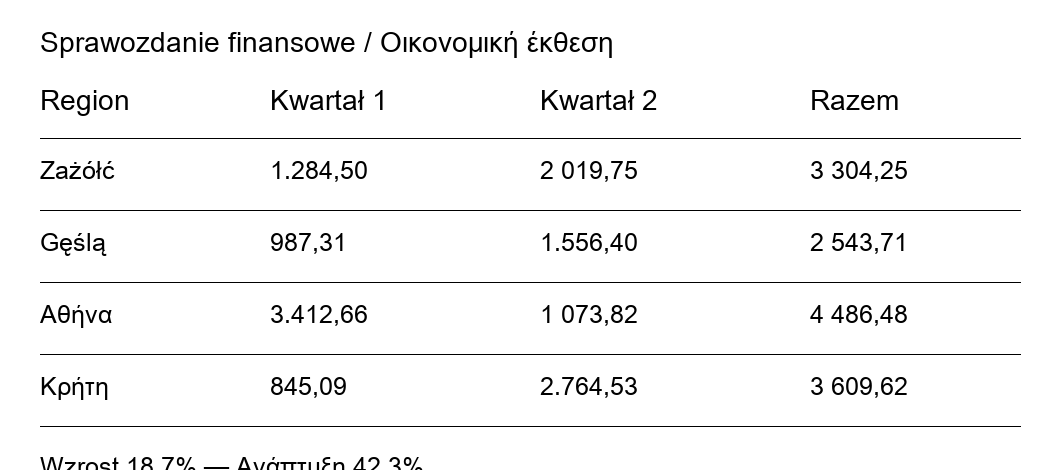
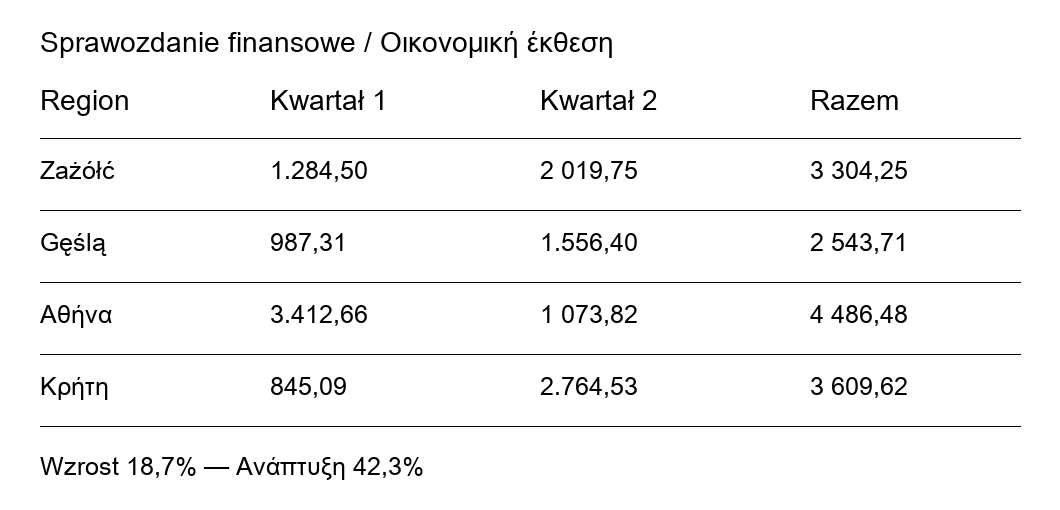
The fixture was clipped: the decimal comma was never in the image
The headline accuracy defect of this pipeline -- "every engine loses the decimal
comma in 18,7% and 42,3%" -- was not an OCR failure. make_fixture.py rendered a
1060x470 image and drew the last line at y=448 in a 25px font, so the baseline
landed at y~471. Measured on the shipped euro_table_sample.png: the comma cell
between the '8' (cols 141-152) and the '7' (cols 162-173) contains ZERO ink, ink
runs to row 469 which is the last row of the image, and there are no rows left
below the glyphs. A comma sits below the baseline, so it fell outside the raster.

Regenerating at 1060x510 and changing nothing else puts 16 ink pixels in that
cell, and PP-OCRv6 reads 'Wzrost 18,7% - ... 42,3%' where it previously read
'Wzrost 18 7% - ... 42 3%'.

Three conclusions have to be withdrawn. PP-OCRv6 and Tesseract were never wrong;
they reported what was there. There was no shared failure mode. And Qwen3.5-VL
did not read the comma correctly -- it emitted a character that is not in the
pixels, and evaluate.py scored that hallucination as a five-point recall gain and
a jump from 90% to 100% precision. A metric that rewards fabrication is the worst
possible property for this system, so the fixture is corrected and the clipped
version kept as euro_clipped_sample.png, which is a genuine degraded-input
fixture worth having.

Also fixes three latent fabrication paths in numeric.py, all reproduced:

- lost_separator_spans consumed the digits around the gap, so a legitimate
[…]

diff --git a/test_numeric.py b/test_numeric.py
@@ -66,7 +66,10 @@ check("'2 x 500 mg' is a product", [q.kind for q in extract("2 x 500 mg")], ["pr
 check("'range 10-20' no negative", vals("range 10-20"), ["10", "20"])
 
 print("\n=== defect 1.10c: lost-separator flag is per-span, not per-line ===")
-check("'BP 120 80' spans", lost_separator_spans("BP 120 80"), [(5, 9)])
+# The span now starts at the gap rather than at the digit before it: the pattern
+# uses a lookbehind so a legitimate thousands group cannot consume the digit that
+# anchors the next test. Callers use these as a boolean, so the bound is cosmetic.
+check("'BP 120 80' spans", lost_separator_spans("BP 120 80"), [(6, 9)])
 check("'Итого 2 019,75' no span", lost_separator_spans("Итого 2 019,75"), [])
 
 print("\n=== no regression: English fixture (table_sample.png) ===")
@@ -112,6 +115,22 @@ for raw, want in [("140 mg", "140 mg"), ("1000 mg", "1000 mg"), ("100 %", "100%"
     q = extract(raw)[0]
     check(f"display({raw!r})", format_key(q.key), want)
 check("'5.0' and '5' still equal", extract("5.0")[0].key == extract("5")[0].key, True)
+
+print("\n=== silent fabrication paths that had no flag at all ===")
+# A thousands group used to consume the digit anchoring the next test, so a
+# dropped decimal separator right after one was invisible.
+check("'2 019 75' is flagged", bool(lost_separator_spans("2 019 75")), True)
+check("'2 019,75' still not flagged", lost_separator_spans("2 019,75"), [])
+check("'1 000 000' still not flagged", lost_separator_spans("1 000 000"), [])
+# The detector must know every separator normalise() treats as grouping.
+check("apostrophe grouping detected", bool(lost_separator_spans("18'7%")), True)
+check("figure space detected", bool(lost_separator_spans("18\u20077%")), True)
+# The word-boundary guard must cover accented Latin, not just ASCII/Greek/Cyrillic.
+check("'Gęślą987,31' yields nothing", vals("Gęślą987,31"), [])
+check("'Kwartał1' yields nothing", vals("Kwartał1"), [])
+check("'café12' yields nothing", vals("café12"), [])
+check("'B12 450' still yields 450", vals("B12 450"), ["450"])
+check("'HbA1c 6.5' still yields 6.5", vals("HbA1c 6.5"), ["6.5"])
 
 print()
 if FAILURES:

diff --git a/numeric.py b/numeric.py
@@ -179,7 +179,11 @@ _FRACTION_MAP = {"½": "0.5", "¼": "0.25", "¾": "0.75", "⅓": "0.333", "⅔":
 
 # A bare number must not be glued to a preceding letter or digit, so 'HbA1c' does
 # not yield 1 and 'B12 450' does not become 12450.
-_BARE_RE = re.compile(rf"(?<![0-9A-Za-zͰ-ϿЀ-ӿ.,]){_BARE}")
+# Two fixed-width lookbehinds. The previous class listed ASCII, Greek and
+# Cyrillic but omitted Latin-1 and Latin Extended-A, so the guard that stops
+# "B12 450" becoming 12450 did not apply to any accented Latin script:
+# "Gęślą987,31" yielded 987,31 and "Kwartał1" yielded 1.
+_BARE_RE = re.compile(rf"(?<![0-9.,])(?<![^\W\d_]){_BARE}")
 _UNIT_AFTER = re.compile(rf"\s*({_UNIT_RE})(?![A-Za-z])")
 
 
@@ -259,14 +263,28 @@ def keys(text: str) -> list[str]:
 # 3-digit group, may be a lost decimal separator: '18,7%' misread as '18 7%'.
 # Returns the spans involved so the flag can be attached to the numbers concerned
 # rather than to every number on the line.
-_LOST_SEP = re.compile(r"(\d)[   ]+(\d+)")
+_LOST_SEP = re.compile("(?<=\\d)[" + SPACE_SEPS + "]+(?=(\\d+))")
 
 
 def lost_separator_spans(text: str) -> list[tuple[int, int]]:
+    """Spans where a separator looks lost.
+
+    Two subtleties, both of which produced silent fabrication:
+
+    * The pattern must not CONSUME the digits around the gap. With a consuming
+      match, a legitimate thousands group swallowed the digit that anchors the
+      next test, so "2 019 75" -- a thousands group followed by a *dropped*
+      decimal separator -- was read as 2019 and 75 and flagged as nothing at all.
+      That is worse than the case this function was written for, because it is
+      silent.
+    * The separator class must match the ones normalise() actually treats as
+      grouping. It previously knew about three of six, so "1'073,82" Swiss
+      grouping was normalised but never checked.
+    """
     spans = []
     for m in _LOST_SEP.finditer(text or ""):
-        if len(m.group(2)) != 3:
-            spans.append(m.span())
+        if len(m.group(1)) != 3:
+            spans.append((m.start(), m.end() + len(m.group(1))))
     return spans
 
 

diff --git a/ocr_core.py b/ocr_core.py
@@ -195,10 +195,16 @@ def process_page(page_img, page_index, eng, gpu_pool, spec, model, verify, args,
 
     h, w = page_img.shape[:2]
     t0 = time.time()
-    layout = LayoutDetection(model_name=args.layout_model)
+    # Use the predictor the caller built. This function used to construct its own
+    # here, shadowing the parameter, so a "built once per run" fix landed in
+    # run_ocr.py while this line quietly rebuilt one per page -- three
+    # constructions in a two-page run, ~215MB each, on a machine that dies of
+    # memory. Pages are processed serially; a shared Paddle predictor would be
+    # unsafe if that ever changes, since they are not documented thread-safe.
+    if layout is None:
+        layout = LayoutDetection(model_name=args.layout_model)
     lay = next(iter(layout.predict(page_img)))
     record("CPU", "layout", t0, time.time())
-    del layout
 
     blocks: list[Block] = []
     for b in lay["boxes"]:
@@ -349,6 +355,10 @@ def process_page(page_img, page_index, eng, gpu_pool, spec, model, verify, args,
         if after_vl is not None:
             after_vl()          # releases the VL model before Paddle loads
         if verify and eng is None and eng_factory is not None:
+            # eng_factory caches, because assigning to this parameter does not
+            # reach the caller: the engines were being rebuilt every page, at
+            # ~1.2s and a monotonically growing RSS, which is the very failure
+            # the build-once change was meant to remove.
             eng = eng_factory()
 
     if verify:

diff --git a/run_ocr.py b/run_ocr.py
@@ -218,8 +218,15 @@ def main():
     from paddleocr import LayoutDetection
     layout = LayoutDetection(model_name=args.layout_model)
 
+    _engines = {}
+
     def eng_factory():
-        return ocr_core.CpuEngines()
+        # Cached: process_page cannot hand the built engines back (assigning to
+        # its parameter does not reach here), so the cache is what stops a
+        # rebuild per page.
+        if "eng" not in _engines:
+            _engines["eng"] = ocr_core.CpuEngines()
+        return _engines["eng"]
 
     # In sequential mode the OCR engines are built after the VL model has been
     # released, so they are never both resident.

diff --git a/make_fixture.py b/make_fixture.py
@@ -10,7 +10,7 @@ from PIL import Image, ImageDraw, ImageFont
 S = float(sys.argv[1]) if len(sys.argv) > 1 else 1.0
 out = sys.argv[2] if len(sys.argv) > 2 else f"euro_{int(S)}x.png"
 F = "/System/Library/Fonts/Supplemental/Arial Unicode.ttf"
-W, H = int(1060 * S), int(470 * S)
+W, H = int(1060 * S), int(510 * S)
 img = Image.new("RGB", (W, H), "white")
 d = ImageDraw.Draw(img)
 fb = ImageFont.truetype(F, int(28 * S))
